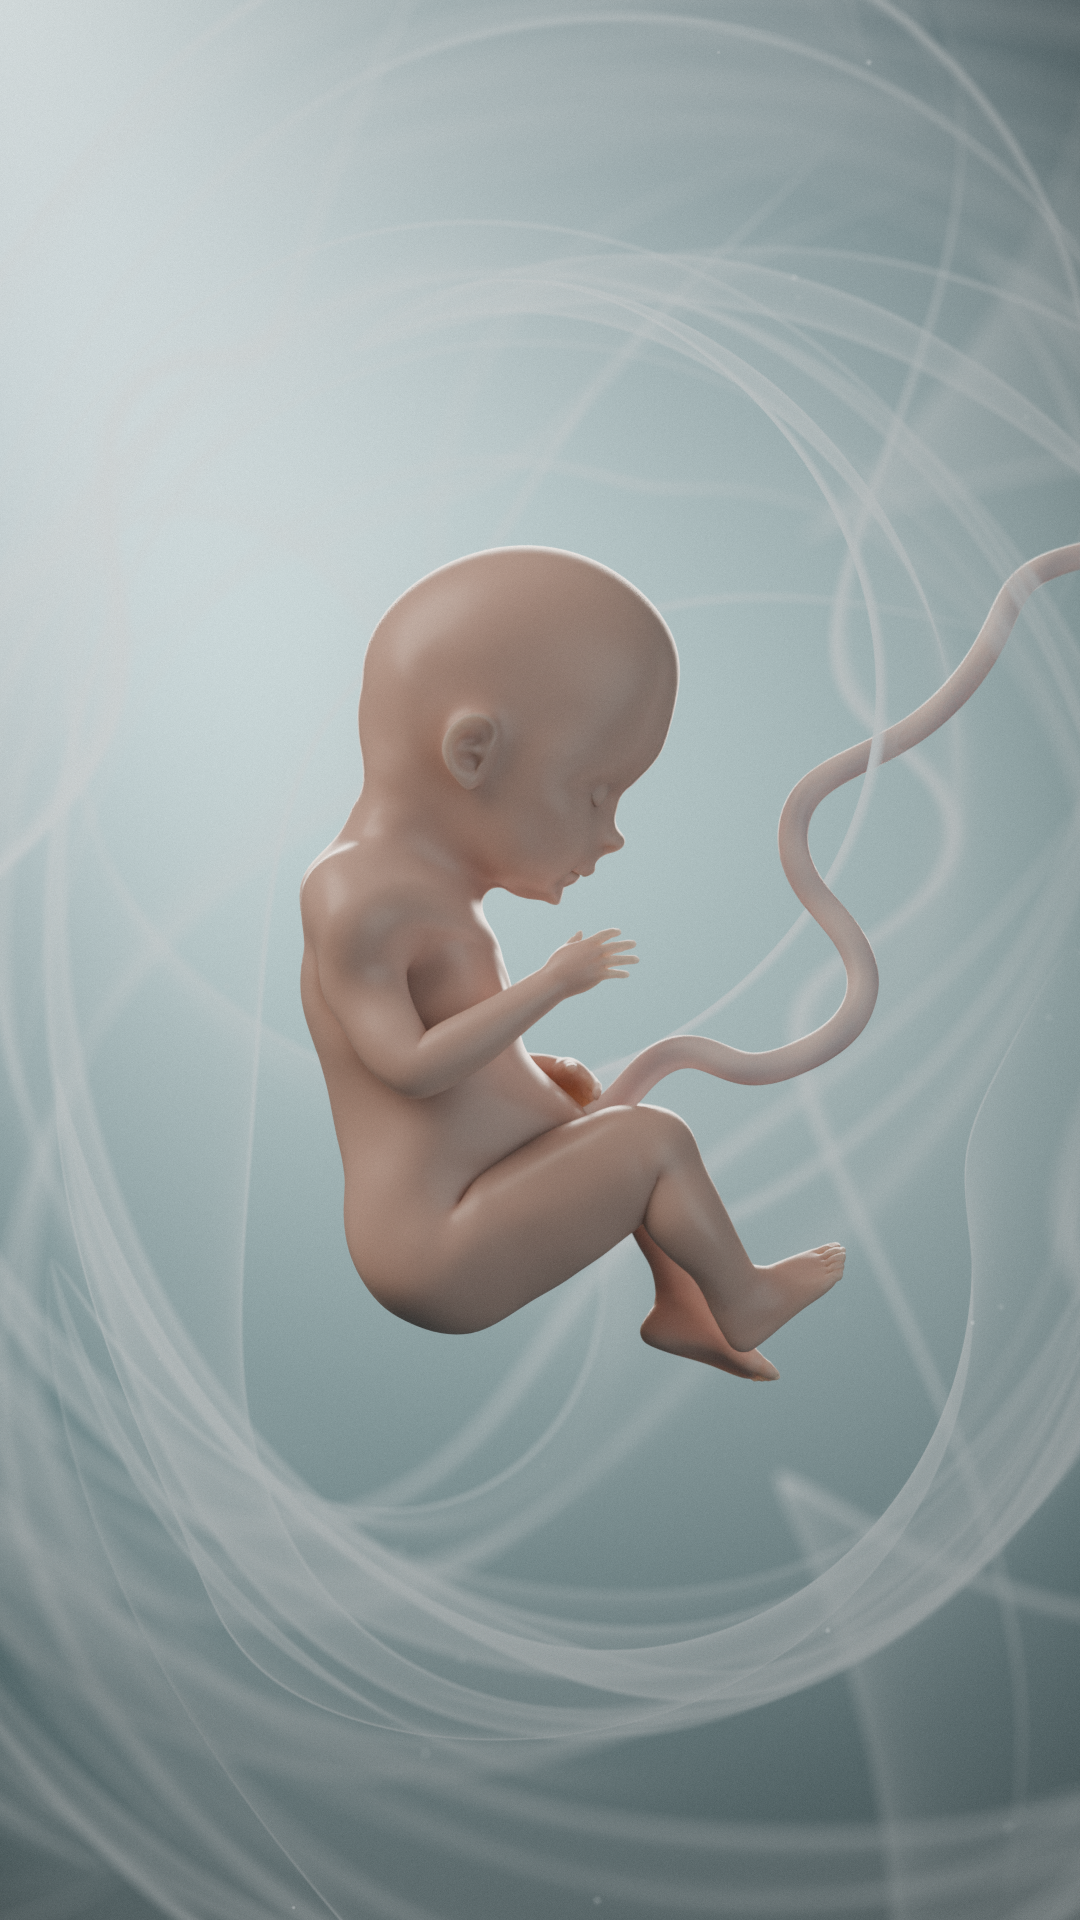
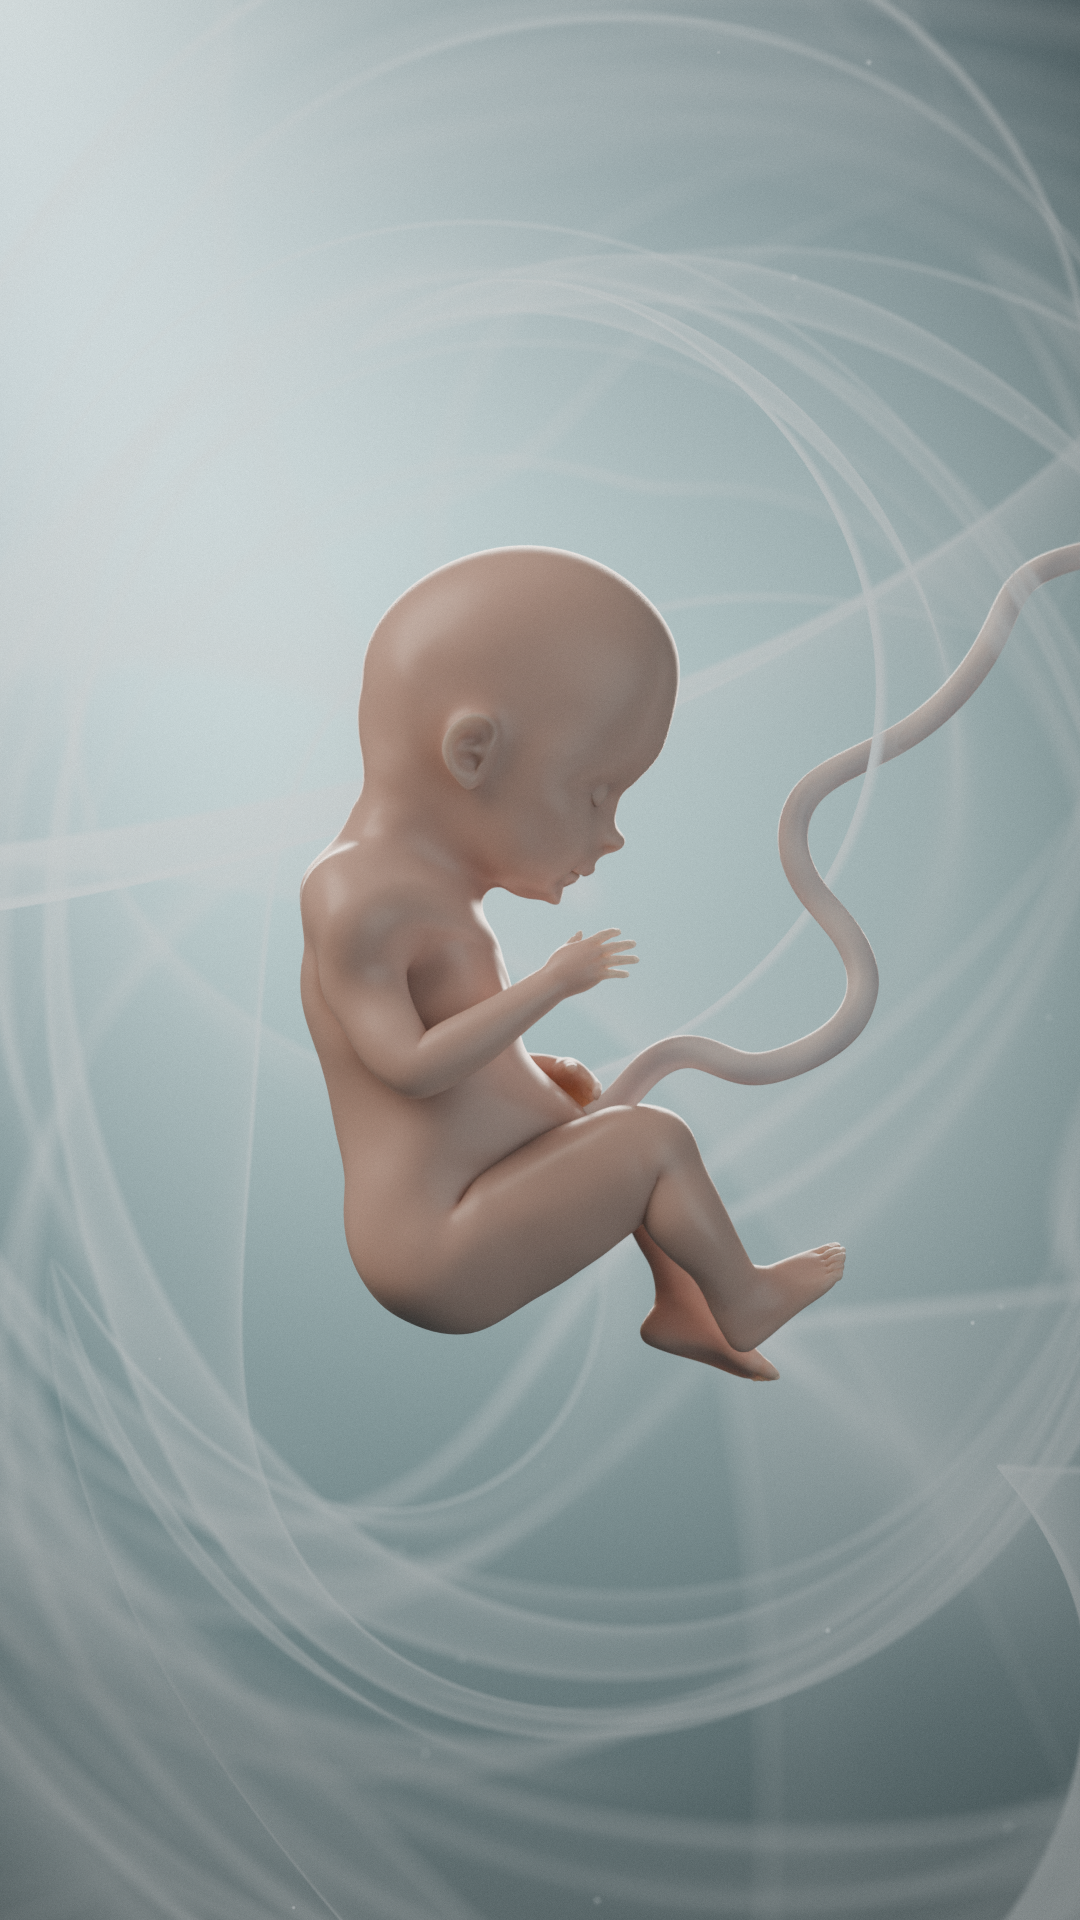
Fetal Growth Explorer: silk sheets behind the fetus, cool cord
Four wide folded silk sheets well behind the fetus replace the medium
sheets (they never cross the body), giving the reference's soft fabric
frame; cord albedo shifted to the reference's cool blue-white.

Claude-Session: https://claude.ai/code/session_012GPESLoAzkgxi7MKnnsx3V

diff --git a/fetal-growth-explorer/blender/scripts/fge/lookdev.py b/fetal-growth-explorer/blender/scripts/fge/lookdev.py
@@ -269,7 +269,7 @@ def cord_material(name="MAT_Cord") -> bpy.types.Material:
     bsdf.subsurface_method = "RANDOM_WALK"
     bsdf.inputs["Base Color"].default_value = rgba("#E6E2E4")
     bsdf.inputs["Subsurface Weight"].default_value = 0.4
-    bsdf.inputs["Subsurface Radius"].default_value = (1.0, 0.6, 0.6)  # pink glow from within
+    bsdf.inputs["Subsurface Radius"].default_value = (1.0, 0.75, 0.75)  # a faint pink glow from within
     bsdf.inputs["Subsurface Scale"].default_value = 0.0012  # shorter than the cord radius, or the streaks blur away
     bsdf.inputs["Roughness"].default_value = 0.45
     bsdf.inputs["Coat Weight"].default_value = 0.15
@@ -303,7 +303,7 @@ def cord_material(name="MAT_Cord") -> bpy.types.Material:
     nt.links.new(wave.outputs["Value"], streak.inputs["Value"])
     tint = nt.nodes.new("ShaderNodeMix")
     tint.data_type = "RGBA"
-    tint.inputs["A"].default_value = rgba("#E8E2E3")
+    tint.inputs["A"].default_value = rgba("#DCE0E4")  # cool blue-white jelly
     tint.inputs["B"].default_value = rgba("#BFC8D0")
     nt.links.new(streak.outputs["Result"], tint.inputs["Factor"])
     nt.links.new(tint.outputs["Result"], bsdf.inputs["Base Color"])
@@ -605,14 +605,12 @@ MEMBRANE_SPECS = [
     (0.8, 5.2, 0.420, 1.00, 0.55, 3.0, 0.034, 0.070, 22.0, (0.020, -0.006)),
     (1.7, 3.4, 0.500, 1.35, 0.60, 3.5, 0.045, 0.110, -32.0, (-0.040, 0.060)),
     (4.7, 3.2, 0.480, 1.55, 0.55, 3.0, 0.042, 0.130, 26.0, (0.050, -0.070)),
-    # broad open sheets over the rings, laid out like the reference: a cradle
-    # under the fetus, sheets sweeping down the upper left, one up the right side
-    (3.1, 3.2, 0.160, 0.06, 0.20, 1.0, 0.012, -0.010, 8.0, (0.000, -0.015)),
-    (1.5, 2.2, 0.300, 0.30, 0.30, 1.5, 0.016, 0.060, -15.0, (0.000, 0.000)),
-    (1.1, 2.8, 0.450, 0.60, 0.25, 1.5, 0.022, 0.120, 22.0, (-0.020, 0.030)),
-    (-1.0, 2.4, 0.350, 0.40, 0.25, 1.0, 0.018, 0.090, -8.0, (0.020, 0.000)),
-    (4.2, 2.0, 0.550, 0.80, 0.30, 1.5, 0.026, 0.200, 12.0, (0.030, -0.040)),
-    (0.2, 1.7, 0.550, 1.00, 0.30, 1.5, 0.026, 0.180, -20.0, (0.040, 0.050)),
+    # wide silk sheets well behind the fetus (they can never cross the body):
+    # the soft folded fabric the reference frames the fetus with
+    (2.9, 3.0, 0.900, 0.45, 0.20, 1.5, 0.030, 0.100, 6.0, (0.000, -0.030)),
+    (1.2, 2.6, 1.100, 0.80, 0.25, 2.0, 0.040, 0.180, 24.0, (-0.030, 0.050)),
+    (-0.9, 2.4, 0.950, 0.60, 0.20, 1.5, 0.034, 0.140, -10.0, (0.030, 0.000)),
+    (4.3, 2.0, 1.200, 1.10, 0.25, 2.0, 0.046, 0.260, 14.0, (0.040, -0.050)),
 ]
 
 
